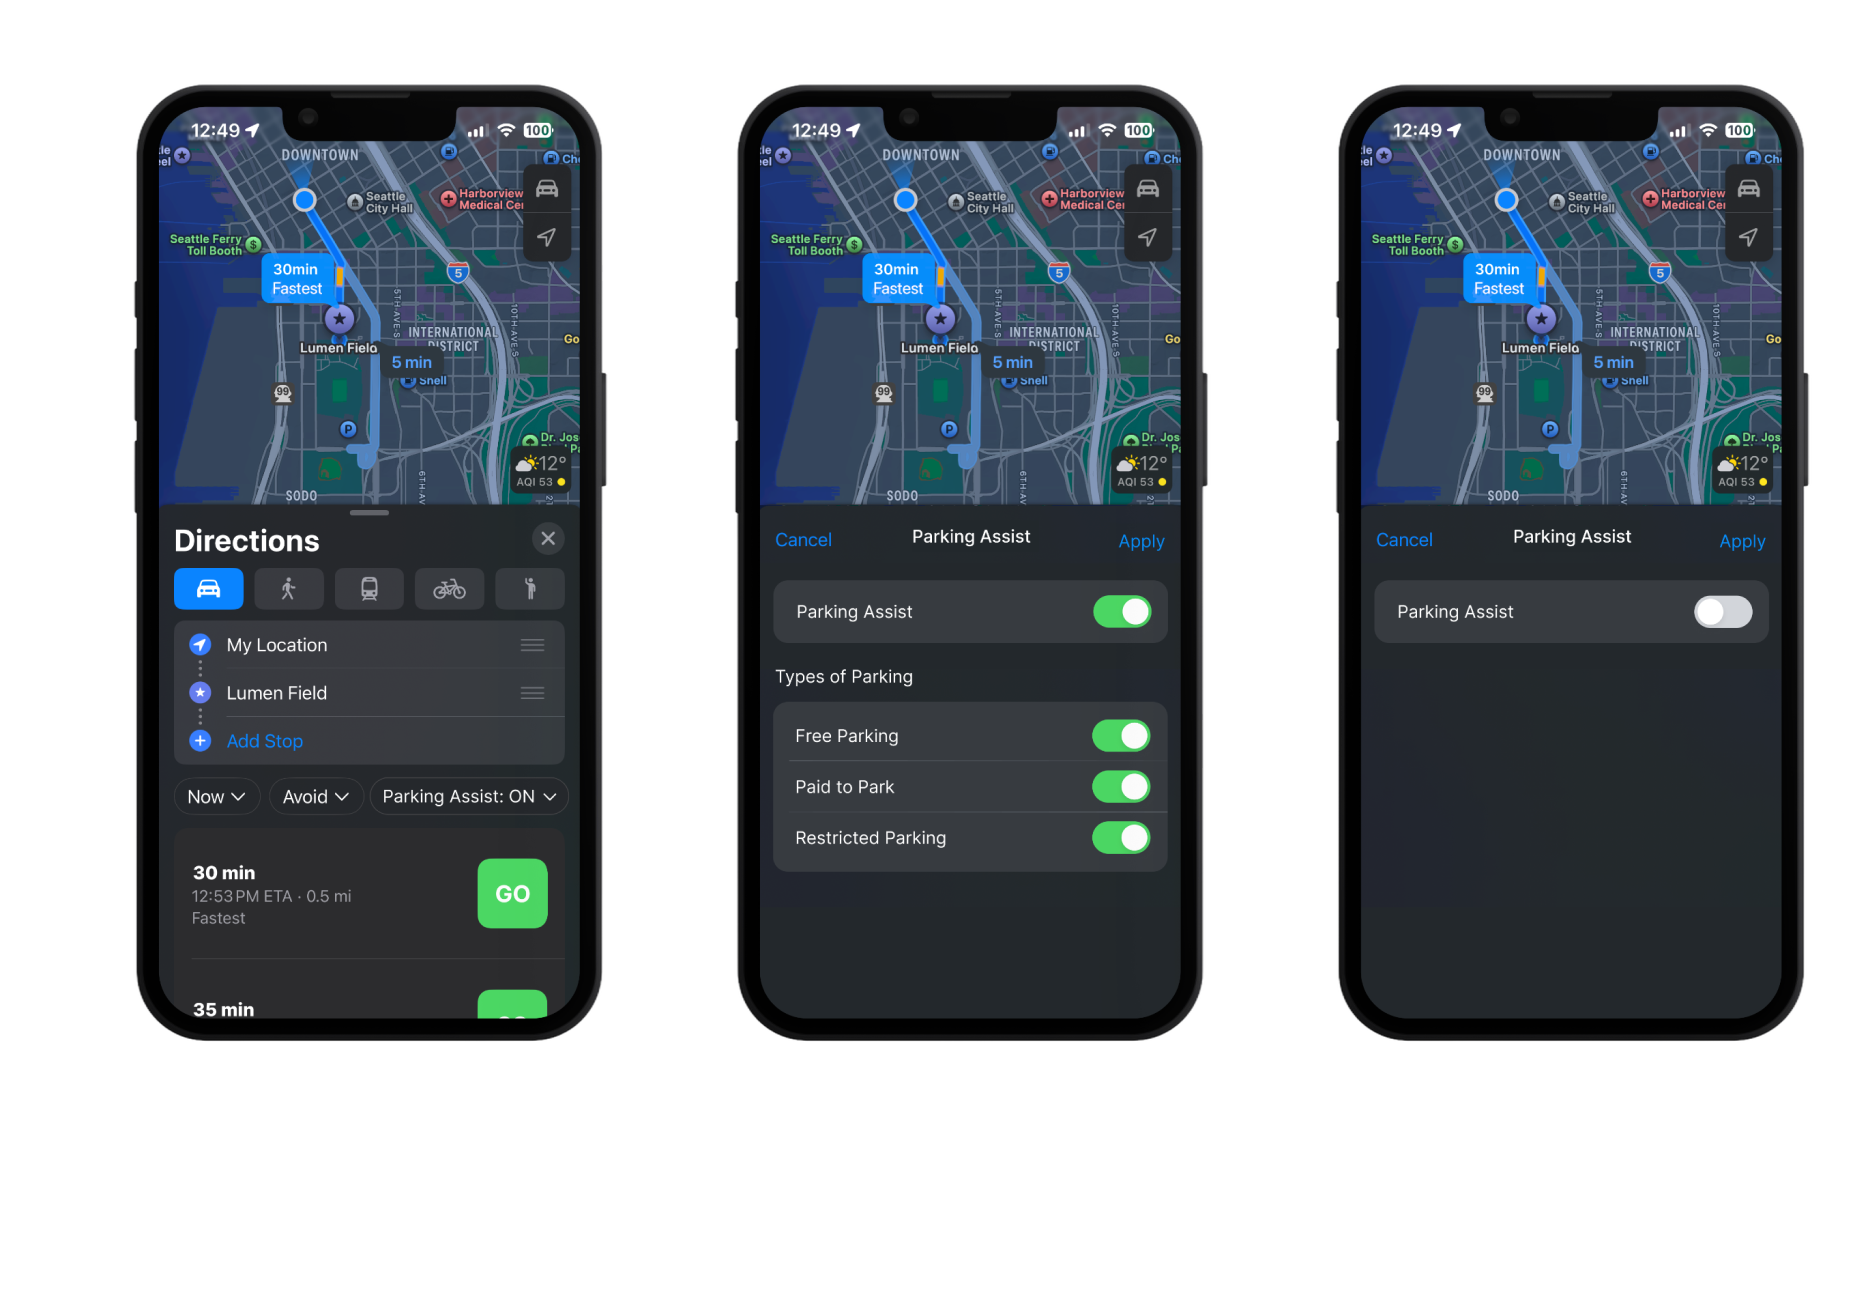
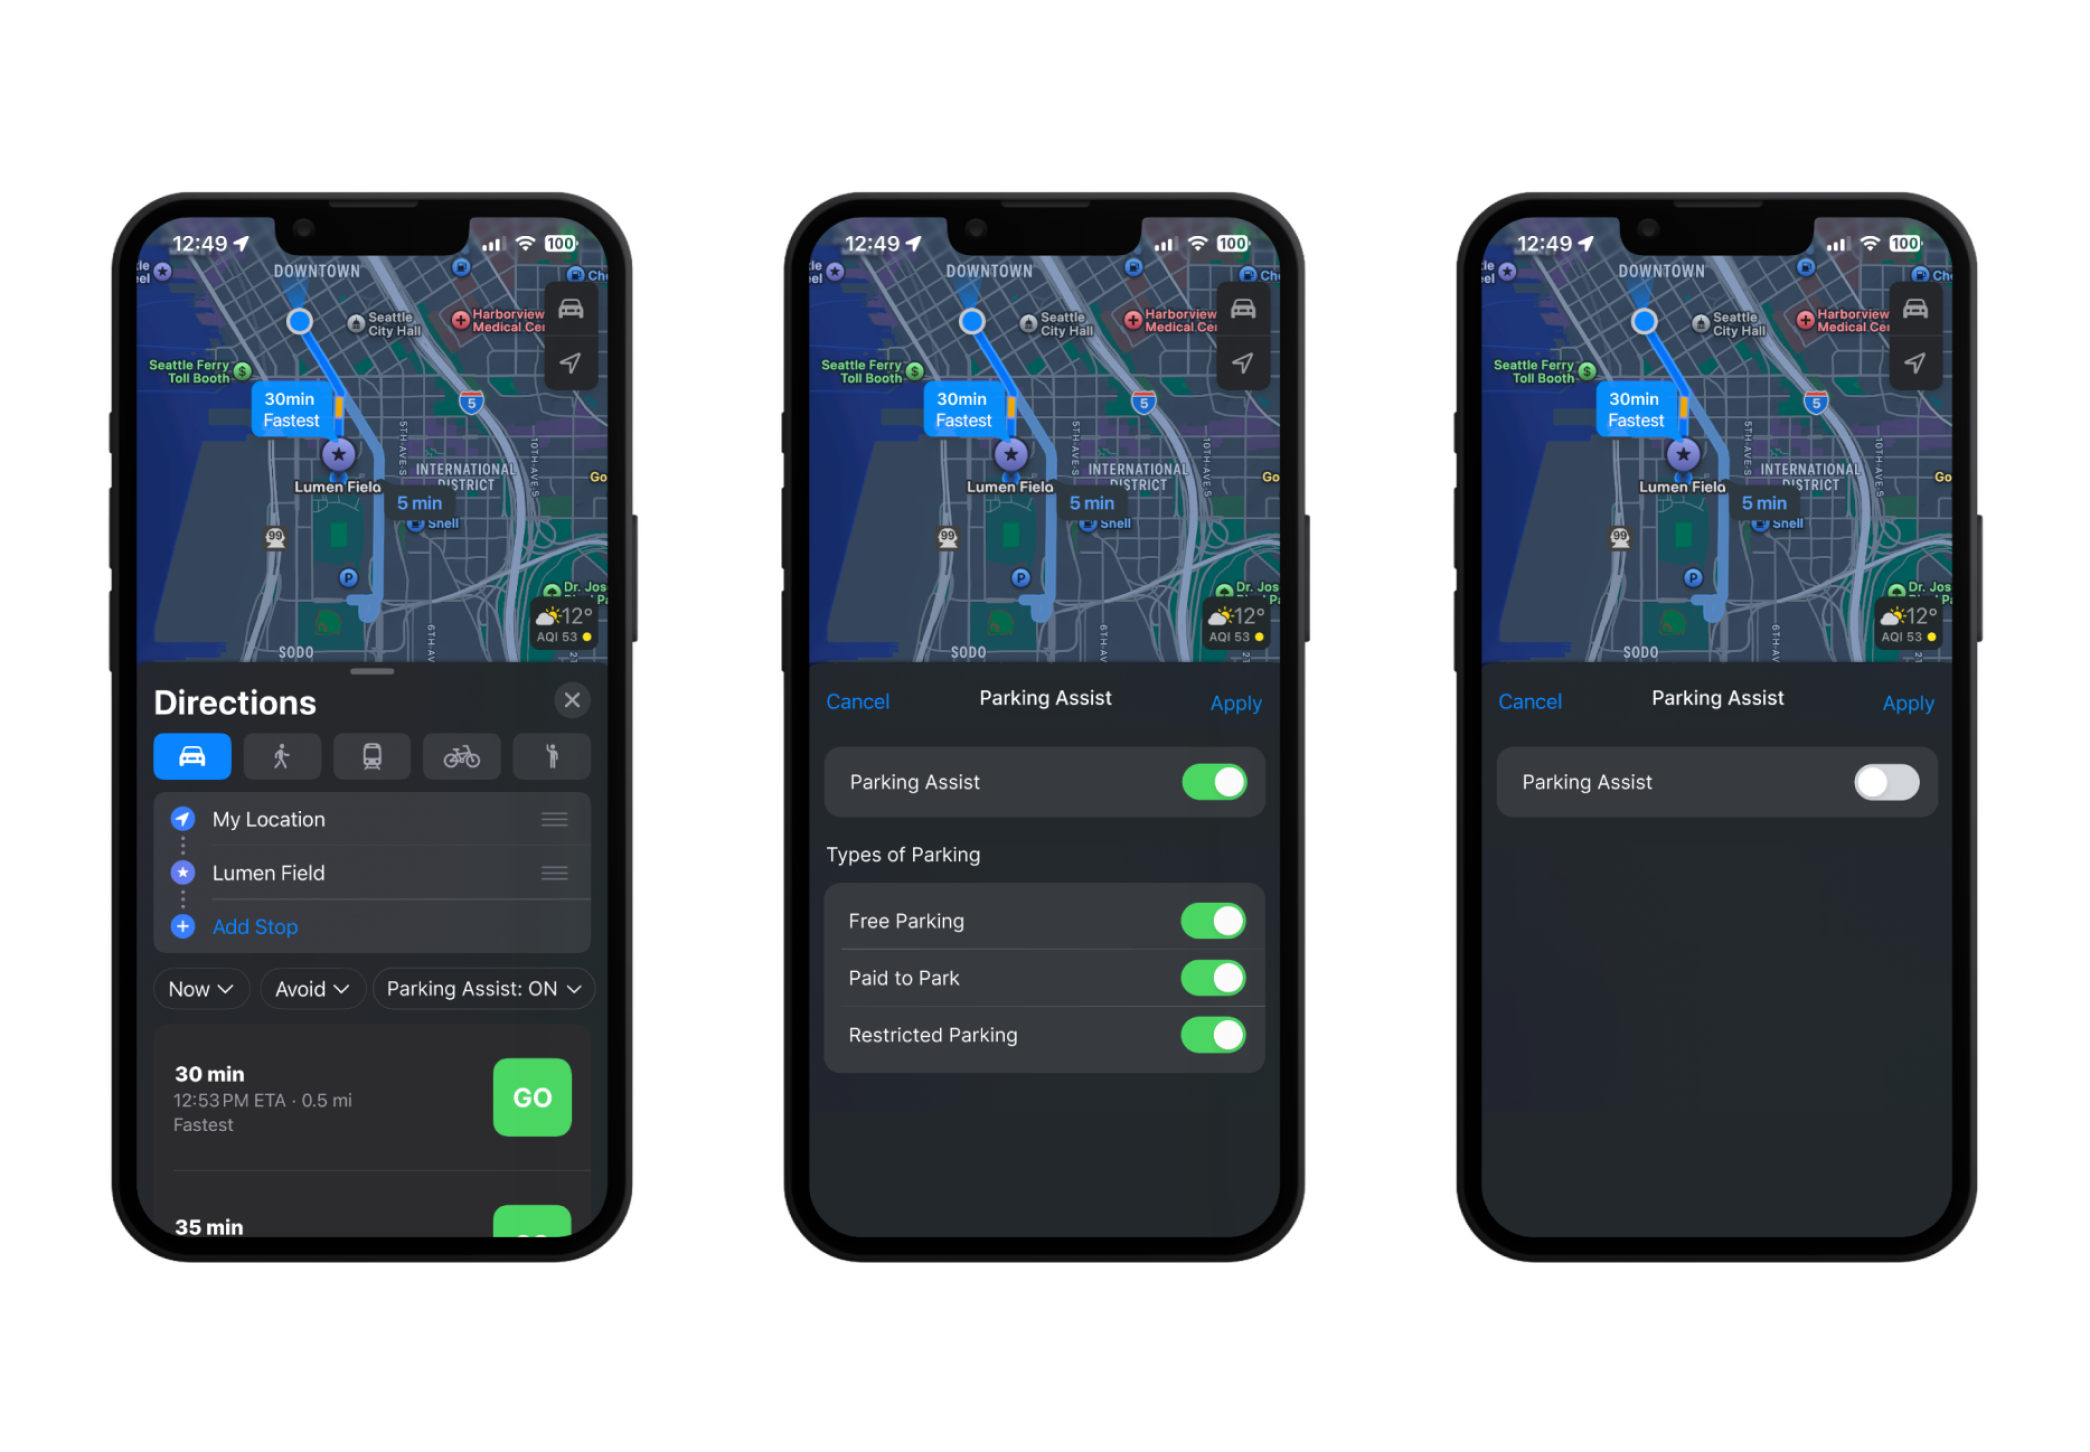
Update about me and fix mouse bug

diff --git a/components/CustomCursor.tsx b/components/CustomCursor.tsx
@@ -22,16 +22,28 @@ export default function CustomCursor() {
     };
 
     const animate = () => {
-      currentX += (mouseX - currentX) * 0.18;
-      currentY += (mouseY - currentY) * 0.18;
-      cursor.style.transform = `translate(${currentX}px, ${currentY}px) translate(-50%, -50%)`;
-      rafRef.current = requestAnimationFrame(animate);
+      currentX += (mouseX - currentX) * 0.4;
+      currentY += (mouseY - currentY) * 0.4;
+      cursor.style.transform = `translate3d(${currentX}px, ${currentY}px, 0) translate(-50%, -50%)`;
+
+      const dx = mouseX - currentX;
+      const dy = mouseY - currentY;
+
+      if (Math.abs(dx) > 0.1 || Math.abs(dy) > 0.1) {
+        rafRef.current = requestAnimationFrame(animate);
+      } else {
+        rafRef.current = null;
+      }
     };
 
     const handlePointerMove = (event: PointerEvent) => {
       mouseX = event.clientX;
       mouseY = event.clientY;
       cursor.style.opacity = "1";
+
+      if (!rafRef.current) {
+        rafRef.current = requestAnimationFrame(animate);
+      }
     };
 
     const handlePointerDown = (event: PointerEvent) => {
@@ -45,7 +57,7 @@ export default function CustomCursor() {
     };
 
     const onHoverStart = () => {
-      setCursorSize(56, 3);
+      setCursorSize(44, 2);
     };
 
     const onHoverEnd = () => {
@@ -57,7 +69,7 @@ export default function CustomCursor() {
     document.addEventListener("pointerleave", handlePointerLeave);
 
     const interactiveTargets = document.querySelectorAll(
-      "a, button, summary, article, details, .project-card, .demo-item, .main-nav a, .chapter-nav a, .back-link"
+      "a, button, summary, .project-card, .demo-item, .main-nav a, .chapter-nav a, .back-link"
     );
 
     interactiveTargets.forEach((element) => {
@@ -67,7 +79,6 @@ export default function CustomCursor() {
 
     setCursorSize(40, 2);
     cursor.style.opacity = "0";
-    rafRef.current = requestAnimationFrame(animate);
 
     return () => {
       document.removeEventListener("pointermove", handlePointerMove);

diff --git a/app/page.tsx b/app/page.tsx
@@ -52,31 +52,14 @@ export default function Home() {
           <div className="about-grid">
             <div className="about-copy">
               <p>
-                I design interfaces that make complexity feel effortless. My work
-                sits at the intersection of strategy, product thinking, and
-                precise front-end craft, helping teams ship experiences that are
-                still elegant under pressure.
+                I’m a frontend engineer at Microsoft and a master’s student in Human-Centered Design & Engineering at UW. 
+                I like building things at the intersection of code and design. I love the process of turning ideas into experiences that feel intuitive and accessible. 
+                I’m particularly interested in creative tools and the ways technology can support people in a quiet, seamless way.
               </p>
               <p>
-                I care about clarity, motion, accessibility, and the small
-                decisions that make a product feel premium—without compromising
-                speed or functionality.
+                Outside of work and school, you’ll usually find me making something, 
+                whether that’s a digital illustration, a knitted sweater, or clay trinkets.
               </p>
-            </div>
-
-            <div className="about-metrics" aria-label="Career metrics">
-              <div>
-                <strong>8+</strong>
-                <span>Years building digital products</span>
-              </div>
-              <div>
-                <strong>24</strong>
-                <span>Product and design launches</span>
-              </div>
-              <div>
-                <strong>3</strong>
-                <span>Design systems scaled across teams</span>
-              </div>
             </div>
           </div>
         </section>

diff --git a/app/globals.css b/app/globals.css
@@ -121,6 +121,7 @@ article:focus-visible {
   z-index: 9999;
   opacity: 0;
   transform: translate(-50%, -50%);
+  will-change: transform;
   transition: width 0.2s ease, height 0.2s ease, border-width 0.2s ease, opacity 0.2s ease;
 }
 
